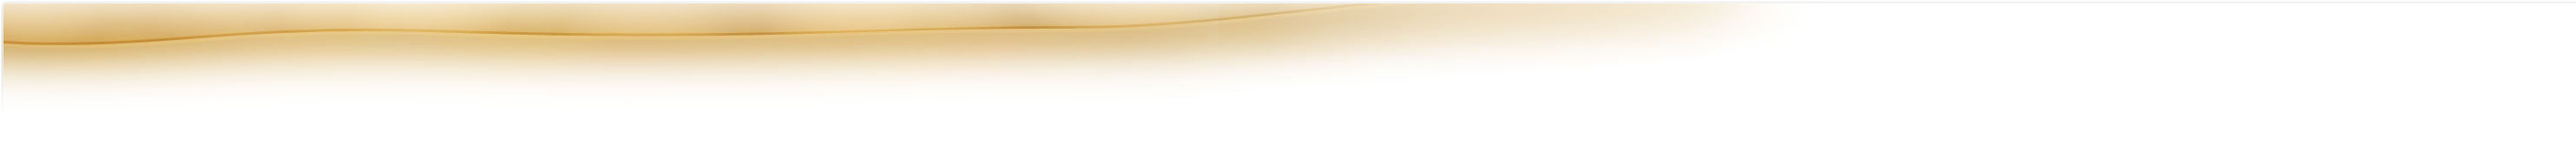
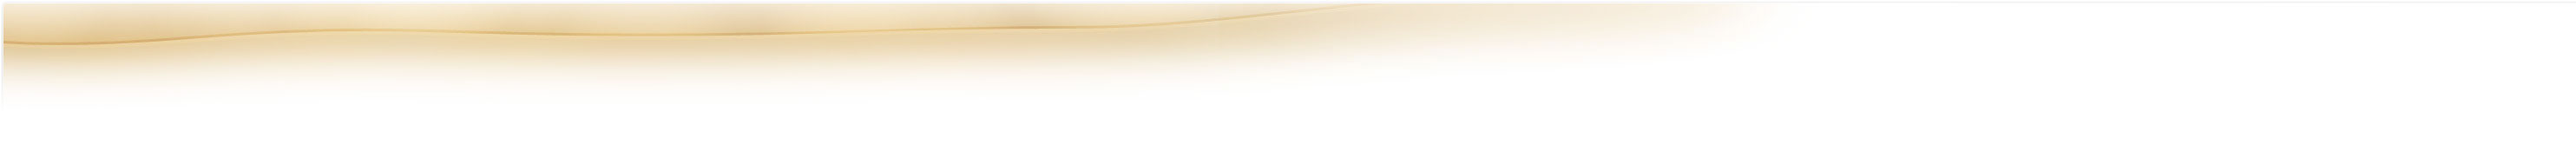
changed image for ikhaya article

Changed region(s): [[0.0, 0.0265, 0.558, 0.3968]]

diff --git a/inyoka/static/style/ikhaya.css b/inyoka/static/style/ikhaya.css
@@ -35,11 +35,12 @@ li.article {
   margin-bottom: 1.0em;
   background-image:url(../img/ikhaya/article.jpg);
   background-repeat:no-repeat;
+  background-position:-8px 0px;;
 }
 
 div.article-top-right {
   padding: 5px 10px 10px 10px;
-  background-image:url(../img/ikhaya/article-top-right.png);
+//  background-image:url(../img/ikhaya/article-top-right.png);
   background-position:top right;
   background-repeat:no-repeat;
 }
